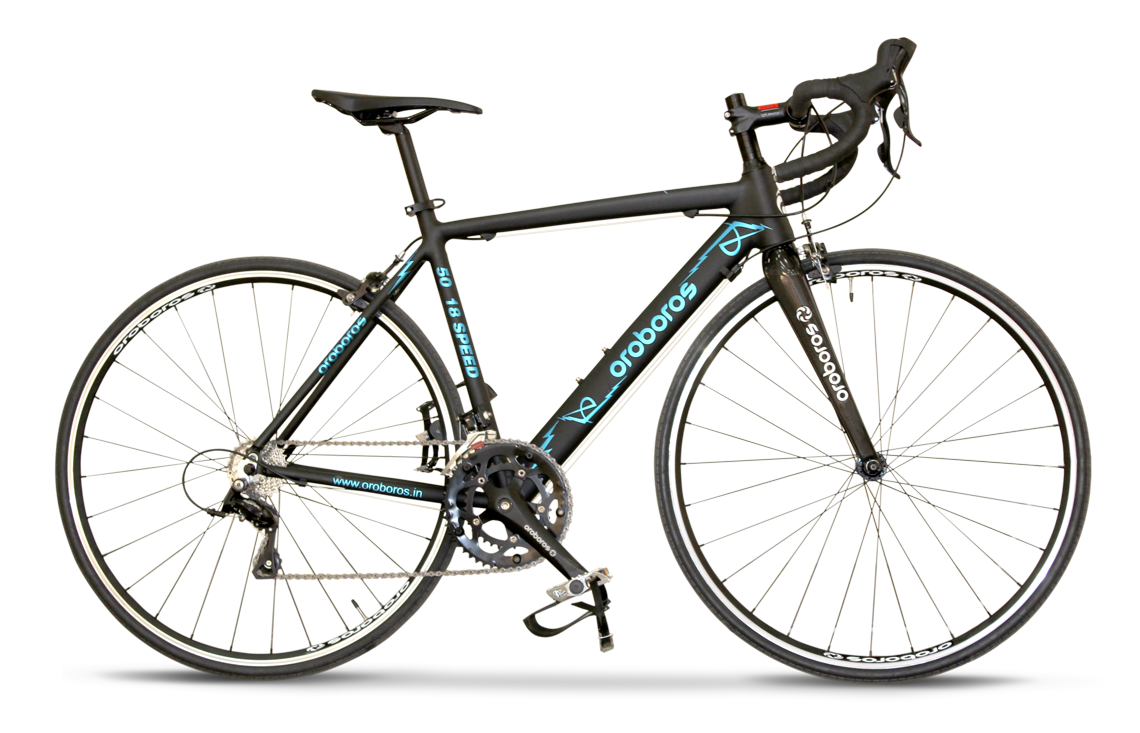
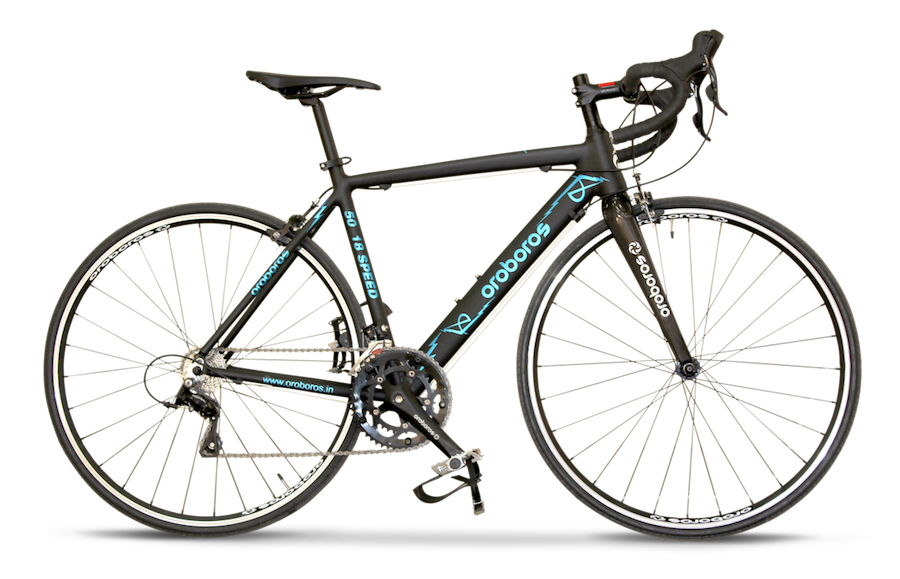
adjustments to image sizes making them all the same

Changed region(s): [[0.3111, 0.6528, 0.3733, 0.6839], [0.1556, 0.3731, 0.2178, 0.4041], [0.1244, 0.4041, 0.1556, 0.4352]]

diff --git a/stylebeach.css b/stylebeach.css
@@ -1,9 +1,10 @@
 *{
 	margin: 0;
 	padding: 0;
-	/*border: solid;*/
+	border: solid;
 	overflow: auto;
 }
+/*------------------------------------------------------------*/
 /*HEADER*/
 header{
 	top: 0;
@@ -21,58 +22,20 @@ header{
 	float: right;
 	margin: 1%;
 }
-.cbike1{
-	margin-top: 17%;
-	text-align: center;
-}
-#origincb, #h3cb{
-	padding: 3%;
-	width: 93%;
-	clear: left;
-	font-size: 2em;
-}
-.cbike2, .cbike3{
-	text-align: center;
-}
-#origincb2, #h3cb2{
-	padding: 3%;
-	width: 93%;
-	clear: right;
-	font-size: 2em;
-}
-#origincb3, #h3cb3{
-	padding: 3%;
-	width: 93%;
-	clear: right;
-	font-size: 2em;
-}
-#cb1, #cb2, #cb3{
-	display: inline;
-	width: 60%;
-}
-#banner{
-	width: 100%;
-	position: absolute;
-	z-index: -1;
-}
-.head1{
-position: absolute;
-margin: 3%;
-background: transparent;
-}
-.h1{
+/*----------------------------------------------------------------------*/
+/*Footer*/
+footer{
+	z-index: 4;
+	margin-top: -150px;
 	position: relative;
-	float: right;
-	margin: 6% 3.5%;
+	text-align: center;
+	background: #5AAA95;
+	padding: 3%;
+	color: white;
+	font-family: Montserrat;
+	font-size: 130%;
 }
-#namehome{
-	float: left;
-	position: absolute;
-	margin-top: 12.5%;
-	margin-left: 5.7%;
+footer>a{
 	color: white;
 }
-.cbike1, .cbike2, .cbike3, .rbike1, .rbike2, .rbike3, .mbike1, .mbike2, .mbike3{
-	background: #034078;
-	color: white;
-}
+/*-----------------------------------------------------------------*/

diff --git a/beach.html b/beach.html
@@ -2,7 +2,7 @@
 <html>
 <head>
 	<title>BEACH</title>
-	<link rel="stylesheet" type="text/css" href="styles.css">
+	<link rel="stylesheet" type="text/css" href="stylebeach.css">
 	<link href="https://fonts.googleapis.com/css?family=Montserrat:100" rel="stylesheet">
 </head>
 <body class="mrb">
@@ -27,12 +27,6 @@
 
 	</header>
 
-	<h1 class="h1">BEACH</h1>
-
-	<p id="namehome">HOME</p>
-
-	<img id="banner" src="images/banner.png">
-
 	<section class="cbike1">
 		<p id="origincb"> Origin <br> Cruisers were popular throughout the 1930s and 40s and gained greater postwar success. Their combination of substantial weight (some models weighing over 50 pounds), single speed mechanicals, and wide tires made the bicycles primarily suited to flat terrain. They were popular with paperboys and bicycle couriers.</p>
 		<img id="cb1" src="images/cruiser.png">
@@ -49,8 +43,10 @@
 	</section>
 
 	<footer>
-		<p>*I do not own these images, none were created by me*</p>
-		<a href="http://paly.net">Palo Alto High School</a>
+		<p>*I do not own these images*</p>
+		<a id="paly_link" href="http://paly.net">Palo Alto High School</a>
+		<br>
+		<a href="https://github.com/doughbryce/bike">GitHub</a>
 	</footer>
 
 
